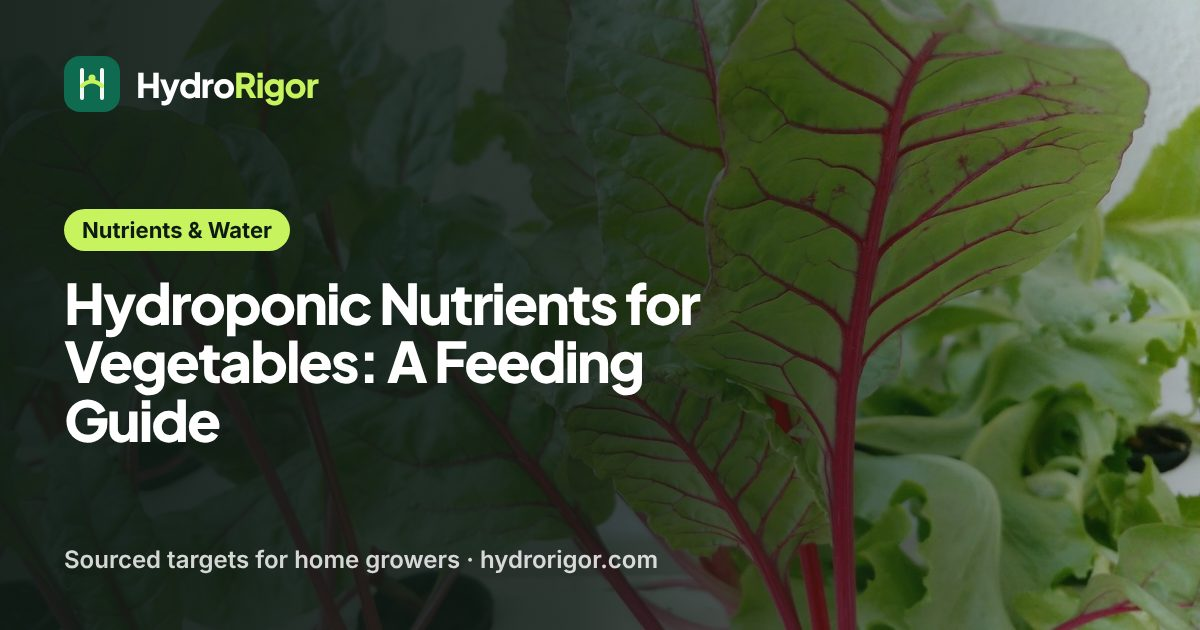
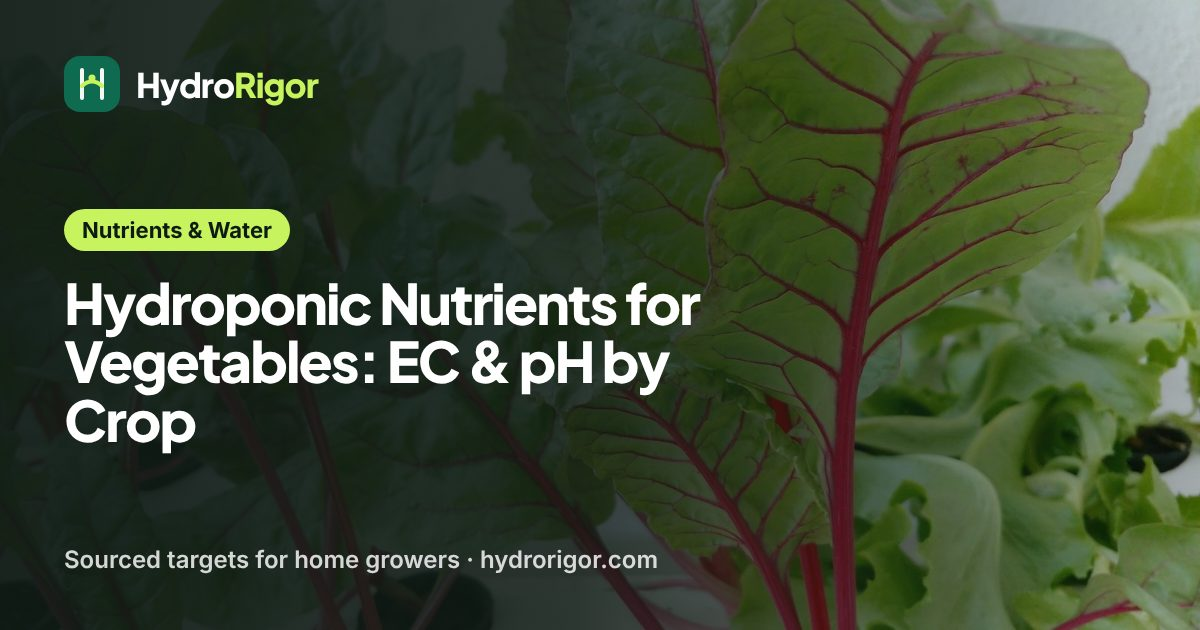
Rebuild vegetables nutrients guide: EC and pH by crop, shared tanks
Queue item 22 (third of the remaining launch rebuilds). Direct answer
with Oklahoma State's crop EC and pH table; pH 6.0 sits inside every
listed crop range; which crops can share a tank (overlaps worked out
from the table); feeding by stage; source-water limits; mixing and
management; troubleshooting; source conflicts; FAQ. Two charts.
Written from registered sources (web fetches were not approved).
Pinterest test now uses the last guide in the rebuild queue.

Claude-Session: https://claude.ai/code/session_011zSWQv9U5GfhByfPKZnqmb

Changed region(s): [[0.3083, 0.5429, 0.555, 0.6333], [0.0617, 0.6333, 0.185, 0.7238]]

diff --git a/src/data/m06-content.ts b/src/data/m06-content.ts
@@ -35,7 +35,7 @@ const items = [
   [15, 'articles', 'nutrients', 'Organic Hydroponic Nutrients: Yields, Problems & Fixes', 'organic-hydroponic-nutrients', 'transactional research', 'hydroponic nutrients organic', 'VERIFIED_2026-09-12', 590, 20, ['usda-organic-certification', 'psu-organic-nutrient-study', 'liu-organic-nft-lettuce-2025', 'wortman-vertical-strawberry-2016', 'purdue-lettuce-ec-ho309', 'mu-nutrient-solutions'], []],
   [16, 'articles', 'best', 'Best Hydroponic Nutrients for Home Growers', 'hydroponic-nutrients-for-home-growers', 'commercial research', 'best hydroponic nutrients', 'METRIC_NOT_REVERIFIED', undefined, undefined, ['psu-nutrient-programs', 'mu-nutrient-solutions', 'psu-plant-nutrition'], ['/tools/nutrient-mixing-calculator/']],
   [17, 'articles', 'nutrients', 'Powder vs Liquid Hydroponic Nutrients: Mixing, Storage & EC', 'powder-vs-liquid-hydroponic-nutrients', 'commercial research', 'hydroponic nutrients powder', 'METRIC_NOT_REVERIFIED', undefined, undefined, ['msstate-fluid-fertilizers', 'purdue-fertilizer-mixing-tips', 'psu-nutrient-programs', 'mu-nutrient-solutions', 'ohio-state-tomato-nutrient-solution', 'masterblend-mixing-instructions', 'gh-floraseries-program', 'osu-ph-ec-guide', 'ifas-lettuce-small-systems', 'tennessee-fruiting-crops', 'msu-calibrate-ph-ec'], ['/tools/nutrient-mixing-calculator/']],
-  [18, 'articles', 'nutrients', 'Hydroponic Nutrients for Vegetables: A Feeding Guide', 'hydroponic-nutrients-for-vegetables', 'transactional research', 'hydroponic nutrients vegetables', 'METRIC_NOT_REVERIFIED', undefined, undefined, ['psu-plant-nutrition', 'mu-nutrient-solutions', 'vt-system-crop-comparisons'], ['/tools/ph-ec-targets/', '/tools/nutrient-mixing-calculator/']],
+  [18, 'articles', 'nutrients', 'Hydroponic Nutrients for Vegetables: EC & pH by Crop', 'hydroponic-nutrients-for-vegetables', 'transactional research', 'hydroponic nutrients vegetables', 'METRIC_NOT_REVERIFIED', undefined, undefined, ['osu-ph-ec-guide', 'tennessee-fruiting-crops', 'mu-nutrient-solutions', 'psu-plant-nutrition', 'psu-nutrient-programs', 'uky-hydroponic-lettuce', 'ifas-lettuce-small-systems', 'ua-strawberry-irrigation', 'vt-system-crop-comparisons'], ['/tools/ph-ec-targets/', '/tools/nutrient-mixing-calculator/']],
   [19, 'articles', 'nutrients', 'Hydroponic Nutrients for Tomatoes: EC, pH & Feeding by Stage', 'hydroponic-nutrients-for-tomatoes', 'informational', 'hydroponic tomatoes nutrient solution', 'VERIFIED_2026-09-12', 170, 18, ['ifas-hydroponic-tomato-formulation', 'tennessee-fruiting-crops', 'ohio-state-tomato-nutrient-solution', 'psu-nutrient-programs', 'osu-ph-ec-guide', 'uky-monitoring-ph-ec', 'msstate-tomato-ph', 'msstate-tomato-fertilizer', 'msstate-blossom-end-rot', 'ifas-volusia-dwc-bucket'], ['/tools/ph-ec-targets/', '/tools/nutrient-mixing-calculator/']],
   [20, 'articles', 'nutrients', 'How to Mix Hydroponic Nutrients: Order, Rates & EC Check', 'how-to-mix-hydroponic-nutrients', 'informational', 'mixing hydroponic nutrients', 'METRIC_NOT_REVERIFIED', undefined, undefined, ['mu-nutrient-solutions', 'psu-nutrient-programs', 'osu-ph-ec-guide', 'ohio-state-tomato-nutrient-solution', 'masterblend-mixing-instructions', 'gh-floraseries-program', 'ifas-lettuce-small-systems', 'purdue-lettuce-ec-ho309', 'tennessee-fruiting-crops', 'uky-hydroponic-lettuce', 'psu-plant-nutrition', 'msu-calibrate-ph-ec'], ['/tools/nutrient-mixing-calculator/', '/tools/ph-ec-targets/']],
   [21, 'reviews', 'reviews', 'Masterblend Hydroponic Nutrients: Beginner Setup Guide', 'masterblend-hydroponic-nutrients', 'transactional research', 'masterblend hydroponic nutrients', 'METRIC_NOT_REVERIFIED', undefined, undefined, ['masterblend-mixing-instructions', 'masterblend-hydroponics'], ['/tools/nutrient-mixing-calculator/']],

diff --git a/.agent/state/CURRENT_HANDOFF.md b/.agent/state/CURRENT_HANDOFF.md
@@ -88,6 +88,7 @@ Updated: 2026-11-16
 Guides published by automated runs under `HydroRigor Editorial`. When Najeeb has read one
 and approves, switch its byline to `Najeeb`.
 
+- `/nutrients-water/hydroponic-nutrients-for-vegetables/` — "Hydroponic Nutrients for Vegetables: EC & pH by Crop" (rebuild, 2026-11-16; Pinterest row `docs/marketing/pinterest/pins-nutrients-vegetables-2026-12-06.csv`, upload by Dec 6). Direct answer (complete nutrient, EC by crop, pH 6.0 sits inside every Oklahoma State crop range), crop EC/pH table, leafy versus fruiting crops, what "complete" means, a which-crops-can-share-a-tank table (overlaps worked out from HLA-6722 Table 2, labelled as HydroRigor's), feeding by stage (Tennessee, Kentucky), source-water limits (Missouri), mixing and management steps, troubleshooting, source conflicts (pepper, strawberry, lettuce pH, tomato EC) and FAQ; two new charts (EC by crop; pH by crop). Written from registered sources only: web fetches were not approved in this run, so no new sources were added; kale and Swiss chard have no figure because no source gives one.
 - `/nutrients-water/powder-vs-liquid-hydroponic-nutrients/` — "Powder vs Liquid Hydroponic Nutrients: Mixing, Storage & EC" (rebuild, 2026-11-16; Pinterest row `docs/marketing/pinterest/pins-powder-vs-liquid-2026-12-05.csv`, upload by Dec 5). Direct answer (same plant response at the same nutrient rate, Mississippi State P1466; liquid for one small reservoir, powder for 5 gal+ with a 0.1 g scale), KeyTargets card, quick-answer table, format comparison table, why liquids hold less nutrient (potash about 11% in solution; Penn State solubility), weighing-error table and chart (labelled arithmetic from Masterblend's 1.5 g/gal Epsom rate), dissolving (Purdue warm water versus Oklahoma State/UF/IFAS root-zone temperature shown as a conflict), separate parts for both formats, making your own two-tank stocks (Penn State, Purdue, Ohio State), ten steps, troubleshooting and FAQ; two new diagrams (decision card; scale error). New sources read 2026-11-16: Mississippi State Extension P1466 Fluid Fertilizers (a field-crop publication; the page says so) and Purdue Vegetable Crops Hotline mixing tips (Langenhoven, 2017). The General Hydroponics, Masterblend, Kentucky jar-test and Yara pages could not be opened in this run (fetch permission timed out), so liquid label rates in mL, guaranteed analyses and dry-storage humidity figures are not on the page; no shelf life or cost-per-gallon figure is given because no source states one. Photo kept (water pouring into a glass).
 - `/nutrients-water/how-to-mix-hydroponic-nutrients/` — "How to Mix Hydroponic Nutrients: Order, Rates & EC Check" (rebuild, 2026-11-15; Pinterest row `docs/marketing/pinterest/pins-how-to-mix-2026-12-04.csv`, upload by Dec 4). Direct answer (water first, one part at a time, calcium last or in its own tank, EC then pH), quick-answer table, six-step order, three ways to make a solution (Penn State), Masterblend per-gallon rate table with liters and labelled 5-gallon arithmetic, two-tank 100X stock example (Ohio State HYG-1437 Table 4), source-water limits, Oklahoma State EC and pH correction steps, ten-step batch, troubleshooting and FAQ; three new diagrams (mixing order; two stock tanks; EC by crop). Sources re-read 2026-11-15 and locators extended: Penn State programs page (verbatim check), Oklahoma State HLA-6722, Ohio State HYG-1437, Masterblend instructions, General Hydroponics FloraSeries mixing notes (order only; its stage feed charts were not used). Conflicts shown: lettuce pH (Oklahoma State 6.0–7.0 vs Kentucky 5.5–6.0), lettuce EC (UF/IFAS 1.2–1.8 vs Purdue 1.3), tomato EC (Oklahoma State 2.0–4.0 vs Tennessee 2.0–3.0), solution temperature, replacement interval. No ppm-scale conversion is given because no registered source states one. Photo kept (measuring beaker).
 

diff --git a/.agent/state/CURRENT_MILESTONE.md b/.agent/state/CURRENT_MILESTONE.md
@@ -92,8 +92,8 @@ impressions in 28 days).
         ("click and grow" 5,400 / 35 is the nearest brand demand; add named units only if Click & Grow approves the owner).
 22. [ ] Remaining launch-guide rebuilds, one per run: ~~`/nutrients-water/how-to-mix-hydroponic-nutrients/`~~
         (rebuilt 2026-11-15, "How to Mix Hydroponic Nutrients: Order, Rates & EC Check"; "mixing hydroponic nutrients" 140 / 19), ~~`/nutrients-water/powder-vs-liquid-hydroponic-nutrients/`~~
-        (rebuilt 2026-11-16, "Powder vs Liquid Hydroponic Nutrients: Mixing, Storage & EC"; "hydroponic nutrients powder" 170 / 19), `/nutrients-water/hydroponic-nutrients-for-vegetables/`
-        ("hydroponic nutrients vegetables" 140 / 15), `/best/indoor-hydroponic-system-kits/`,
+        (rebuilt 2026-11-16, "Powder vs Liquid Hydroponic Nutrients: Mixing, Storage & EC"; "hydroponic nutrients powder" 170 / 19), ~~`/nutrients-water/hydroponic-nutrients-for-vegetables/`~~
+        (rebuilt 2026-11-16, "Hydroponic Nutrients for Vegetables: EC & pH by Crop"; "hydroponic nutrients vegetables" 140 / 15), `/best/indoor-hydroponic-system-kits/`,
         `/best/hydroponic-nutrients-for-home-growers/` ("best hydroponic nutrients" 260 / 20),
         `/reviews/masterblend-hydroponic-nutrients/` ("masterblend hydroponic nutrients" 210 / 22),
         `/reviews/general-hydroponics-nutrients/` (170 / 23).

diff --git a/docs/research/search-console/log.md b/docs/research/search-console/log.md
@@ -19,6 +19,7 @@ Figures are copied from Search Console (web search, last 28 days unless noted); 
 
 | Shipped | Page | Change | Check after |
 | --- | --- | --- | --- |
+| 2026-11-16 | /nutrients-water/hydroponic-nutrients-for-vegetables/ | Full rebuild (EC and pH by crop, shared-tank table, 2 charts, 9 sources) | 2026-11-30, 2026-12-14 |
 | 2026-11-15 | /nutrients-water/organic-hydroponic-nutrients/ | Full rebuild (#75: yields vs mineral nutrients, causes and fixes, 2 diagrams); before: 43 impressions, position 60.8 (Nov 1–13) | 2026-11-29, 2026-12-13 |
 | 2026-11-14 | /crops/hydroponic-tomato-seeds/ | Full rebuild (seed by space, micro-dwarf trial data, 2 diagrams, 8 sources) | 2026-11-28, 2026-12-12 |
 | 2026-11-14 | /best/hydroponic-ph-meter/ | New guide (ph meter hydroponics 590 / 15) | 2026-11-28, 2026-12-12 |
